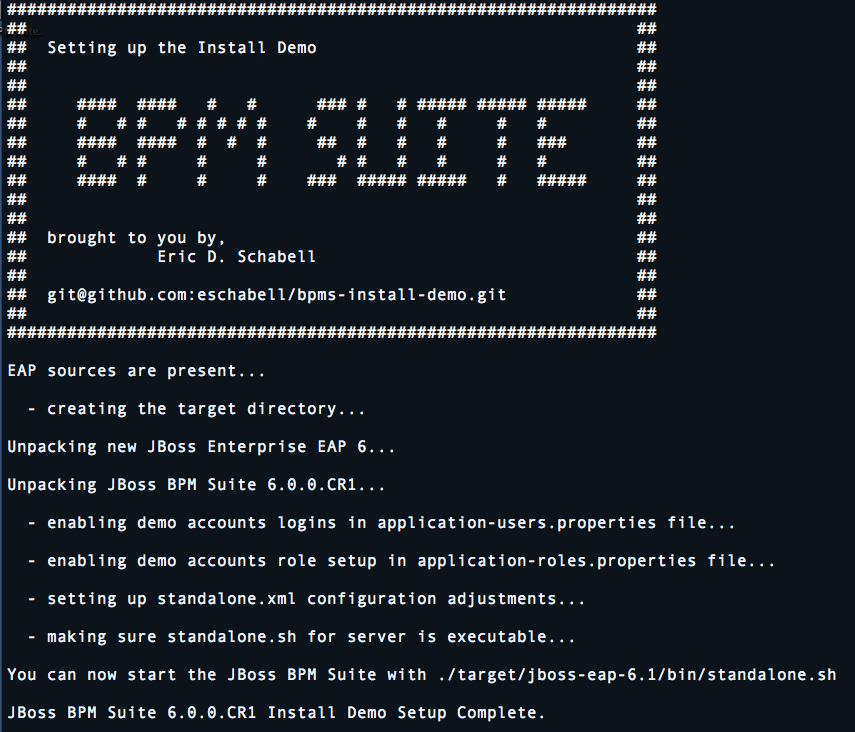
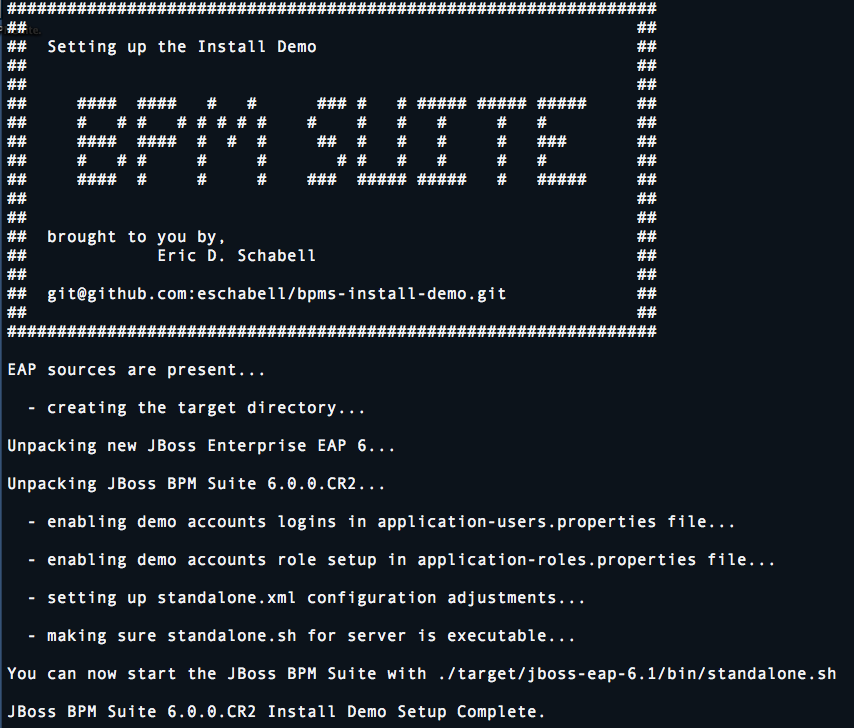
Updated project to CR2 product release.

diff --git a/README.md b/README.md
@@ -30,6 +30,8 @@ Released versions
 
 See the tagged releases for the following versions of the product:
 
+- v0.4 - JBoss BPM Suite 6.0.0.CR2 installed on JBoss EAP 6.1.1.
+
 - v0.3 - JBoss BPM Suite 6.0.0.CR1 installed on JBoss EAP 6.1.1 with optional mock data.
 
 - v0.2 - JBoss BPM Suite 6.0.0.Beta installed on JBoss EAP 6.1.1 with mock data.
